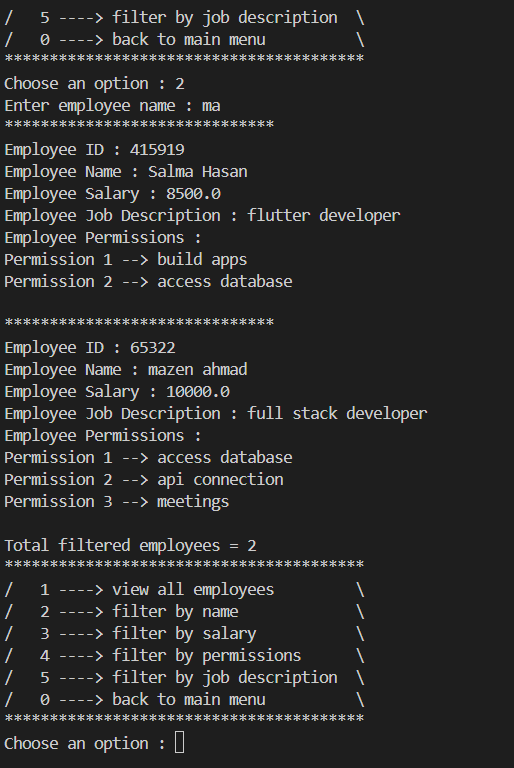
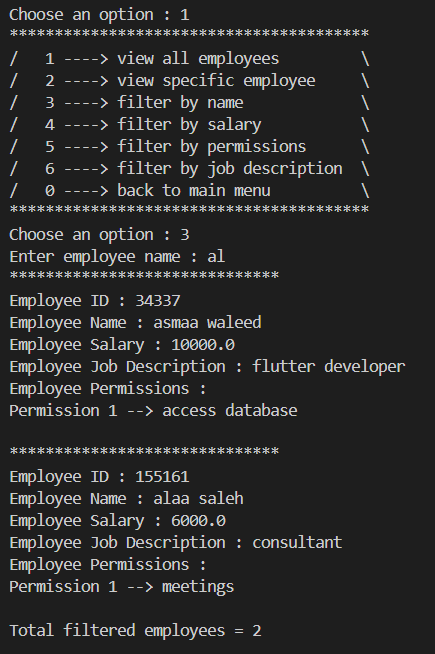
add specific employee filteration

Changed region(s): [[0.0, 0.0, 0.9264, 0.9786], [0.8368, 0.1529, 0.8667, 0.3058]]

diff --git a/employee_manager/bin/view_employees.dart b/employee_manager/bin/view_employees.dart
@@ -1,5 +1,6 @@
 import 'dart:io';                            // library used to interact with user
 import 'app_menu.dart';                      // function to print manager's menu
+import 'get_input_id.dart';                  // function to get id input from user
 import 'get_input_name.dart';                // function to get name input from user
 import 'get_input_salary.dart';              // function to get salary input from user
 import 'get_input_job_desc.dart';            // function to get job description input from user
@@ -29,18 +30,24 @@ void viewEmployees({required Map employees}) {
           filtered = false;
         }
 
+      // view specific employee
+      case '2' :
+        int id = getInputID(employees);
+        employees[id].display();
+        continue;
+
       // filter by name
-      case '2':
+      case '3':
         String inputName = getInputName();
         filteredEmployees = filterByName(name: inputName, employees: employees);
 
       // filter by salary
-      case '3':
+      case '4':
         double inputSalary = getInputSalary();
         filteredEmployees = filterBySalary(salary: inputSalary, employees: employees);
 
       // filter by permission
-      case '4':
+      case '5':
         stdout.write("Enter a permission : ");
         String? permission = stdin.readLineSync();
         while(permission!.isEmpty || permission.contains(RegExp(r'[a-zA-Z]')) == false) {
@@ -51,7 +58,7 @@ void viewEmployees({required Map employees}) {
         filteredEmployees = filterByPermission(permission:permission, employees:employees);
 
       // filter by job description
-      case '5':
+      case '6':
         String jobDescription = getInputJobDesc();
         filteredEmployees = filterByJobDesc(jobDesc:jobDescription, employees:employees);
 

diff --git a/employee_manager/bin/app_menu.dart b/employee_manager/bin/app_menu.dart
@@ -29,10 +29,11 @@ void appMenu({required String mode}) {
   if (mode == 'filter') {
     print("*" * 40);
     print('/   1 ----> view all employees         \\');
-    print('/   2 ----> filter by name             \\');
-    print('/   3 ----> filter by salary           \\');
-    print('/   4 ----> filter by permissions      \\');
-    print('/   5 ----> filter by job description  \\');
+    print('/   2 ----> view specific employee     \\');
+    print('/   3 ----> filter by name             \\');
+    print('/   4 ----> filter by salary           \\');
+    print('/   5 ----> filter by permissions      \\');
+    print('/   6 ----> filter by job description  \\');
     print('/   0 ----> back to main menu          \\');
     print("*" * 40);
   }

diff --git a/employee_manager/README.md b/employee_manager/README.md
@@ -69,6 +69,7 @@ In this process, the menu will switch mode to `filter` mode where manager can se
 
 Filteration options :
 - None
+- Specific Employee
 - Filter by Name
 - Filter by Salary
 - Filter by Job Description
